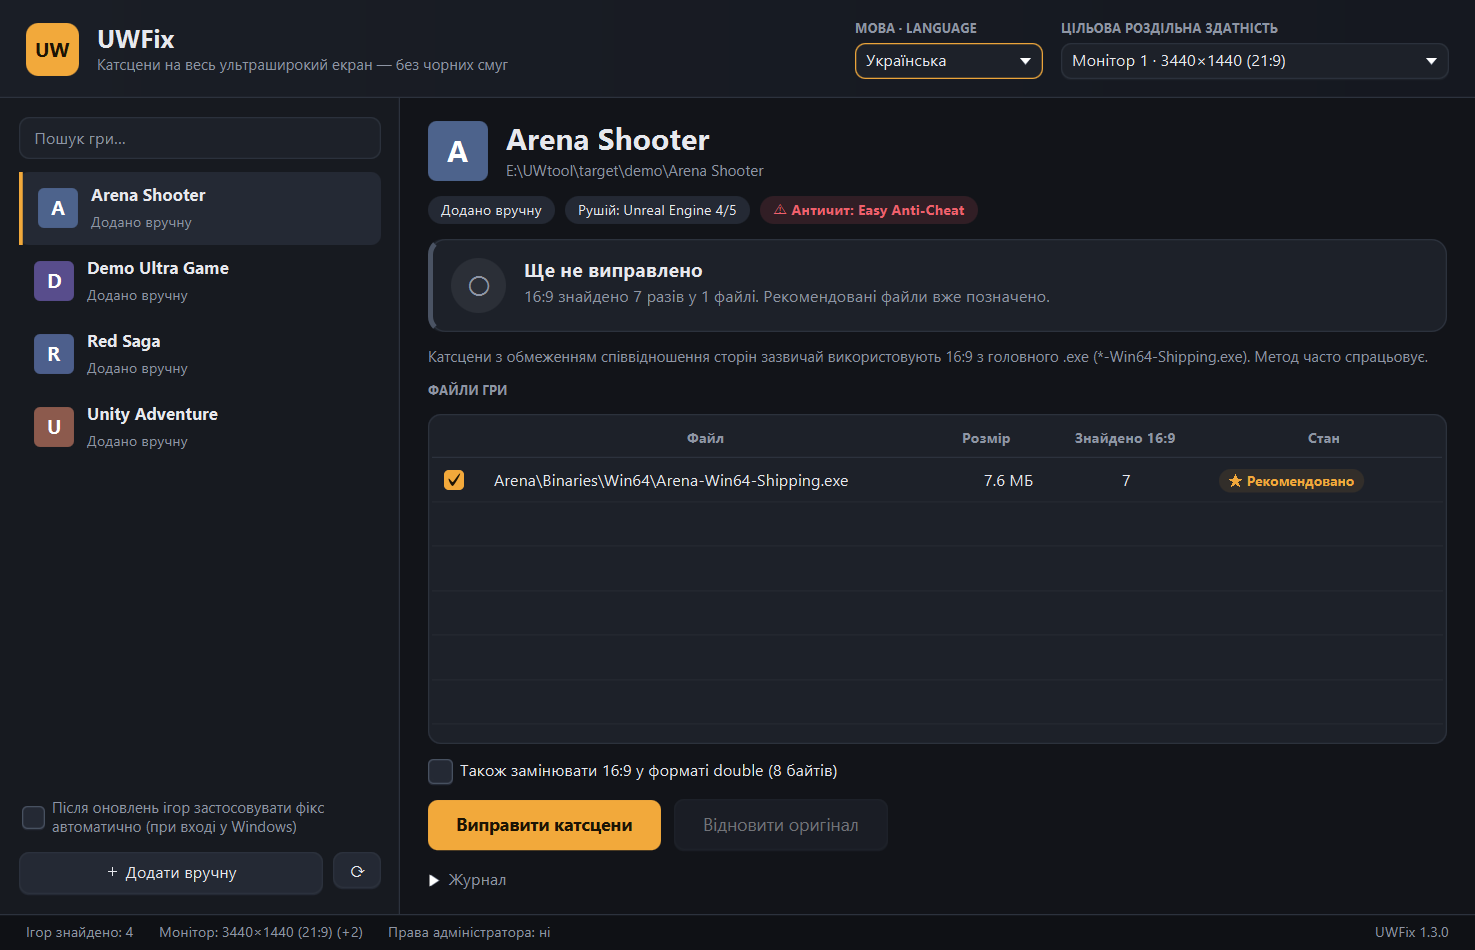
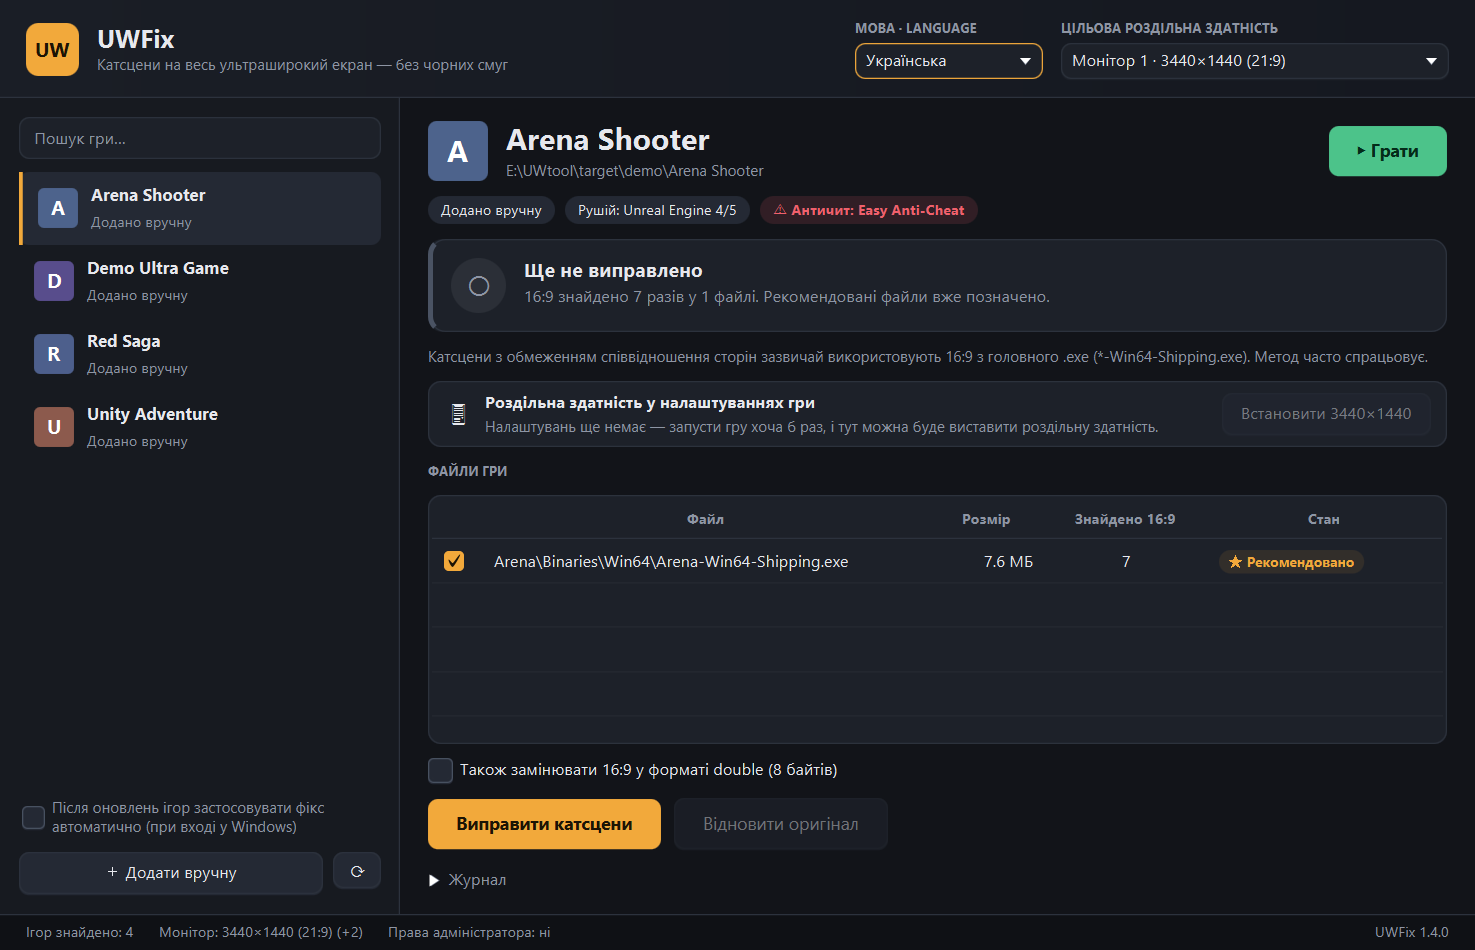
Версія 1.4.0: розблокування роздільної здатності, кнопка «Грати»
- README: нові можливості, пакет settings, 151 тест
- оновлено знімки екрана

diff --git a/README.uk.md b/README.uk.md
@@ -39,6 +39,8 @@ UWFix робить це автоматично й безпечно. **Підхо
   - змінюються лише знайдені 4 (або 8) байтів, решта файлу не переписується;
   - перед кожним записом перевіряється, що на місці саме очікувані байти;
   - контрольна сума SHA-256 оригіналу й результату зберігається в стані програми.
+- **Розблокування роздільної здатності**: для ігор, які не пропонують 3440×1440 у меню, UWFix записує її прямо в налаштування гри — `GameUserSettings.ini` (Unreal Engine 4/5), `*Engine.ini` (Unreal Engine 3, наприклад Life is Strange) або реєстр (Unity).
+- **Кнопка «Грати»**: запускає гру через Steam / Epic / Ubisoft Connect (досягнення й хмарні збереження працюють) або напряму через .exe.
 - **Відновлення оригіналу** однією кнопкою — навіть без резервної копії, бо програма знає всі змінені місця.
 - **Відстеження оновлень**: після оновлення гри (Steam замінює файл) програма помічає, що фікс злетів, і пропонує застосувати його знову. Можна ввімкнути автоматичне повторне застосування при вході у Windows.
 - **Попередження про античит** (Easy Anti-Cheat, BattlEye, VAC тощо): змінювати файли онлайн-ігор небезпечно для акаунта.
@@ -50,7 +52,7 @@ UWFix робить це автоматично й безпечно. **Підхо
 - Метод працює, лише якщо гра зберігає 16:9 як готове число. Якщо співвідношення обчислюється інакше, UWFix покаже «Число 16:9 не знайдено».
 - **Відеоролики, записані заздалегідь у 16:9, виправити неможливо**: у самому відео немає зображення по боках.
 - Після заміни в окремих іграх інтерфейс може розтягнутися. Тоді натисни «Відновити оригінал».
-- UWFix змінює лише співвідношення сторін. Якщо гра не пропонує твою роздільну здатність у налаштуваннях, її треба виставити окремо (зазвичай у файлі конфігурації гри).
+- Налаштування гри з'являються після першого запуску — запусти гру хоча б раз, перш ніж виставляти роздільну здатність у UWFix.
 - Ігри з Microsoft Store / Xbox Game Pass захищені від змін.
 - Не використовуй програму для онлайн-ігор з античитом.
 
@@ -108,6 +110,7 @@ src/main/java/ua/uwfix/
 ├── scan/                     пошук ігор: SteamScanner (парсер VDF), EpicScanner (JSON),
 │                             GogScanner, UbisoftScanner (реєстр через reg export), GameLibrary
 ├── analysis/                 GameAnalyzer (вибір файлів), EngineDetector, AntiCheatDetector
+├── settings/                 ResolutionUnlocker, IniEditor, UnityPrefs — роздільна здатність у налаштуваннях гри
 ├── icon/                     PeIconExtractor (іконки з .exe: ресурси PE, PNG/BMP), GameIconLocator (кеш Steam)
 ├── patch/                    Patcher (заміна, відновлення, повторне застосування), PatchStore (стан у JSON)
 ├── cli/                      ReapplyCommand — тихий режим --reapply
@@ -141,7 +144,7 @@ flowchart LR
 
 ## Тестування
 
-138 модульних тестів (JUnit 5): перетворення співвідношень у байти, три алгоритми пошуку (порівняння з еталоном на випадкових даних), потокове сканування з різними розмірами блоку, парсери VDF / .reg / JSON, вибір файлів для різних рушіїв, повний цикл «патч → оновлення гри → повторне застосування → відновлення», пошкоджений файл стану, повнота перекладу (однакові ключі й параметри в обох мовах), порівняння версій і безпечне розпакування оновлень (зокрема архівів зі шляхами за межі папки), видобування іконок із синтетичного PE-файлу (PNG і BMP з маскою прозорості).
+151 модульний тест (JUnit 5): перетворення співвідношень у байти, три алгоритми пошуку (порівняння з еталоном на випадкових даних), потокове сканування з різними розмірами блоку, парсери VDF / .reg / JSON, вибір файлів для різних рушіїв, повний цикл «патч → оновлення гри → повторне застосування → відновлення», пошкоджений файл стану, повнота перекладу (однакові ключі й параметри в обох мовах), порівняння версій і безпечне розпакування оновлень (зокрема архівів зі шляхами за межі папки), видобування іконок із синтетичного PE-файлу (PNG і BMP з маскою прозорості).
 
 Порівняння алгоритмів на 128 МБ даних, схожих на машинний код (`mvnw test -Pbenchmark`):
 

diff --git a/README.md b/README.md
@@ -39,6 +39,8 @@ not taken from a fixed table.
   - only the 4 (or 8) bytes found are changed, the rest of the file is not rewritten;
   - before each write the expected bytes are verified;
   - SHA-256 checksums of the original and the result are stored.
+- **Resolution unlock**: for games that don't offer 3440×1440 in their menu, UWFix writes it straight into the game settings — `GameUserSettings.ini` (Unreal Engine 4/5), `*Engine.ini` (Unreal Engine 3, e.g. Life is Strange) or the registry (Unity).
+- **Play button**: launches the game via Steam / Epic / Ubisoft Connect (achievements and cloud saves keep working) or directly via its .exe.
 - **One-click restore** — even without the backup, because UWFix knows every changed location.
 - **Update tracking**: when a game updates (Steam replaces the file), UWFix notices the fix is gone and offers to re-apply it. Optionally it can re-apply automatically at Windows sign-in.
 - **Anti-cheat warning** (Easy Anti-Cheat, BattlEye, VAC…): modifying online games is risky for your account.
@@ -50,7 +52,7 @@ not taken from a fixed table.
 - The method works only if the game stores 16:9 as a ready-made number. If the ratio is computed differently, UWFix will say “The 16:9 value was not found”.
 - **Pre-rendered 16:9 video cutscenes cannot be fixed**: there is no picture on the sides in the video itself.
 - In some games the UI may stretch after patching — just press “Restore original”.
-- UWFix changes the aspect ratio only; if a game does not offer your resolution in its settings, set it separately (usually in the game's config file).
+- Game settings appear after the first launch — run the game once before setting the resolution in UWFix.
 - Microsoft Store / Xbox Game Pass games are write-protected.
 - Do not use it for online games with anti-cheat.
 
@@ -108,6 +110,7 @@ src/main/java/ua/uwfix/
 ├── scan/                     game discovery: SteamScanner (VDF parser), EpicScanner (JSON),
 │                             GogScanner, UbisoftScanner (registry via reg export), GameLibrary
 ├── analysis/                 GameAnalyzer (file selection), EngineDetector, AntiCheatDetector
+├── settings/                 ResolutionUnlocker, IniEditor, UnityPrefs — resolution in game settings
 ├── icon/                     PeIconExtractor (icons from .exe: PE resources, PNG/BMP), GameIconLocator (Steam cache)
 ├── patch/                    Patcher (patch, restore, re-apply), PatchStore (state in JSON)
 ├── cli/                      ReapplyCommand — silent --reapply mode
@@ -135,7 +138,7 @@ flowchart LR
 
 ## Testing
 
-138 unit tests (JUnit 5): ratio-to-bytes conversion, three search algorithms (checked against a reference
+151 unit tests (JUnit 5): ratio-to-bytes conversion, three search algorithms (checked against a reference
 on random data), streaming scan with various chunk sizes, VDF / .reg / JSON parsers, file selection for
 different engines, the full “patch → game update → re-apply → restore” cycle, a corrupted state file,
 translation completeness (same keys and parameters in both languages), version comparison and safe unpacking of updates (including archives with paths escaping the folder), icon extraction from a synthetic PE file (PNG and BMP icons with a transparency mask).
